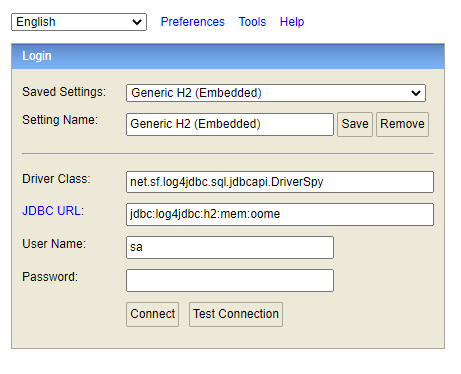
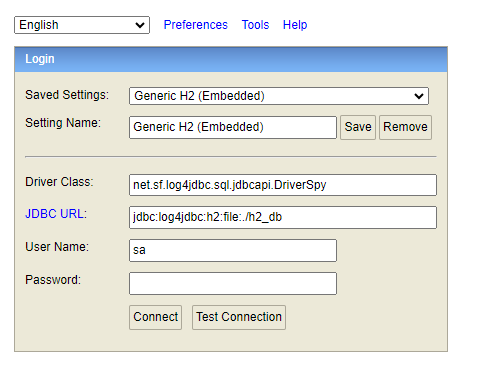
가이드 수정

Changed region(s): [[0.0, 0.0294, 0.9718, 0.9412], [0.243, 0.7353, 0.2733, 0.7647]]

diff --git a/modules/web/oome-web-local/src/main/java/org/oome/OomeWebLocalApplication.java b/modules/web/oome-web-local/src/main/java/org/oome/OomeWebLocalApplication.java
@@ -32,7 +32,6 @@ public class OomeWebLocalApplication implements CommandLineRunner {
     @Override
     public void run(String... args) throws Exception {
 //        createDummyUser();
-
     }
 
     /**

diff --git a/guide/1-개발환경조성.md b/guide/1-개발환경조성.md
@@ -42,3 +42,10 @@
    3. jdbc url을 다음과 같이 설정합니다.   jdbc:log4jdbc:h2:file:./h2_db
    4. 이후 접속을 확인합니다.
    5. ![h2login](images/main/h2login.png)
+   
+6. 최초 실행시 dummy user가 각 로컬 pc에 없으므로 dummy user가 필요한 경우 다음 주석을 해제합니다.
+   1. OomeWebLocalApplication으로 이동합니다.
+   2. CommandLineRunner의 run메소드 구현체로 이동합니다.
+   3. createDummyUser() 의 주석을 해제합니다.
+   4. 각 user는 user/admin/dev 의 id를 가지며 패스워드는 1234 입니다.
+   5. 이 로직이 한번 실행된 이후 또 실행되면 unique 제약조건에 의해 어플리케이션이 실행되지 않습니다. 필요시 1회 실행 후 다시 주석처리합니다.
